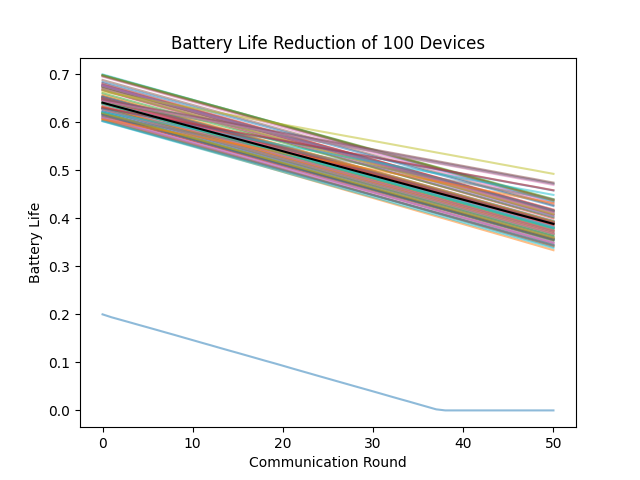
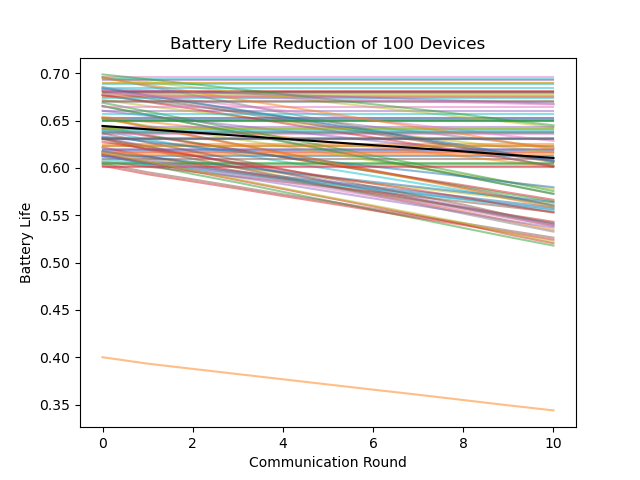
trying to fix a lot of the other modes

diff --git a/cloud.py b/cloud.py
@@ -32,6 +32,7 @@ preferred_device = "cuda" if torch.cuda.is_available() else "cpu"
 """
 A bunch of global variables to keep track of new additions to the simulation
 """
+speed_threshold = 5.0
 train_times = [[] for _ in range(100)]
 batteries = [[] for _ in range(100)]
 speeds = [select_speed() for _ in range(100)]
@@ -217,7 +218,7 @@ class Cloud:
     def federated_learning(self):
         total_time_start = time.time()
         round_time = time.time()
-        times = np.zeros(2)
+        times = np.zeros(50)
 
         with open(self.cloud_cfg, "r") as cfg:
             dat = json.load(cfg)
@@ -447,8 +448,7 @@ class Cloud:
                 available_devices = []
 
                 for d in mobility_data_filt[t[t_idx]]:
-                    if d["internet_speed"] >= 0 and np.random.rand() > 0.5:
-
+                    if d["internet_speed"] >= 0:
                         available_devices.append(d)
                 # Skipping communication round - aggregate if necessary
                 if len(available_devices) == 0:
